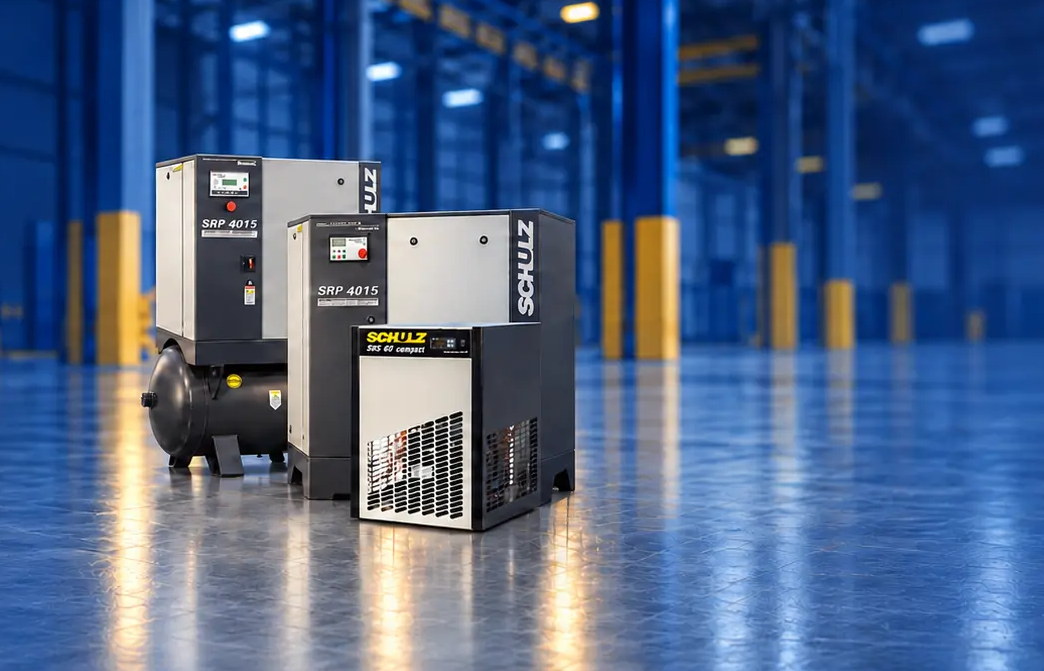
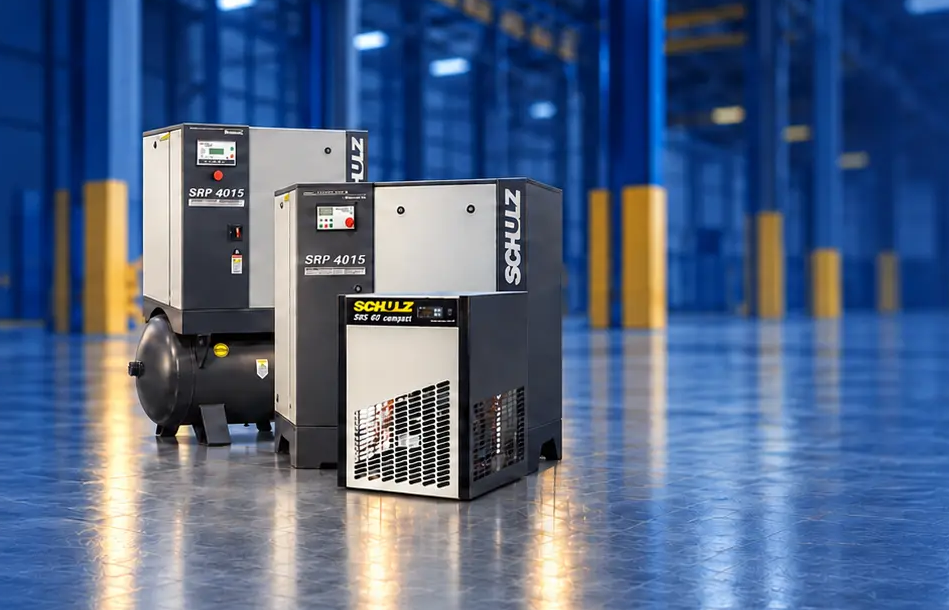
feat: zoom de 10% nos equipamentos do hero, na mesma posição

diff --git a/docs/BRIEFING.md b/docs/BRIEFING.md
@@ -99,10 +99,10 @@ Derivada em: 21/10/2026 por `npm run ficha` — `linhas processo aplicacoes dife
 
 ## Assets
 
-| Asset          | Arquivo                 | Origem                                                                                                                                                                                                                  | Status                                            |
-| -------------- | ----------------------- | ----------------------------------------------------------------------------------------------------------------------------------------------------------------------------------------------------------------------- | ------------------------------------------------- |
-| Logo           | `src/assets/LOGO.png`   | a da LP de manutenção (site do cliente, 341×82)                                                                                                                                                                         | entregue (baixa resolução: pedir vetor ou PNG 2×) |
-| Banner do hero | `src/assets/heroBg.png` | banner do cliente (23/10/2026, 1870×841: SRP 4015 com reservatório, SRP 4015 e secador SRS 60 em galpão), recortado com zoom de 25% (x 657, y 87, 1044×671) para os equipamentos ficarem maiores e logo depois do texto | entregue                                          |
+| Asset          | Arquivo                 | Origem                                                                                                                                                                                                                   | Status                                            |
+| -------------- | ----------------------- | ------------------------------------------------------------------------------------------------------------------------------------------------------------------------------------------------------------------------ | ------------------------------------------------- |
+| Logo           | `src/assets/LOGO.png`   | a da LP de manutenção (site do cliente, 341×82)                                                                                                                                                                          | entregue (baixa resolução: pedir vetor ou PNG 2×) |
+| Banner do hero | `src/assets/heroBg.png` | banner do cliente (23/10/2026, 1870×841: SRP 4015 com reservatório, SRP 4015 e secador SRS 60 em galpão), recortado com zoom de ~37% (x 670, y 118, 949×610) para os equipamentos ficarem maiores e logo depois do texto | entregue                                          |
 
 | Asset                 | Arquivo                                            | Origem                                                                                                                                                                                       | Status                                                    |
 | --------------------- | -------------------------------------------------- | -------------------------------------------------------------------------------------------------------------------------------------------------------------------------------------------- | --------------------------------------------------------- |
